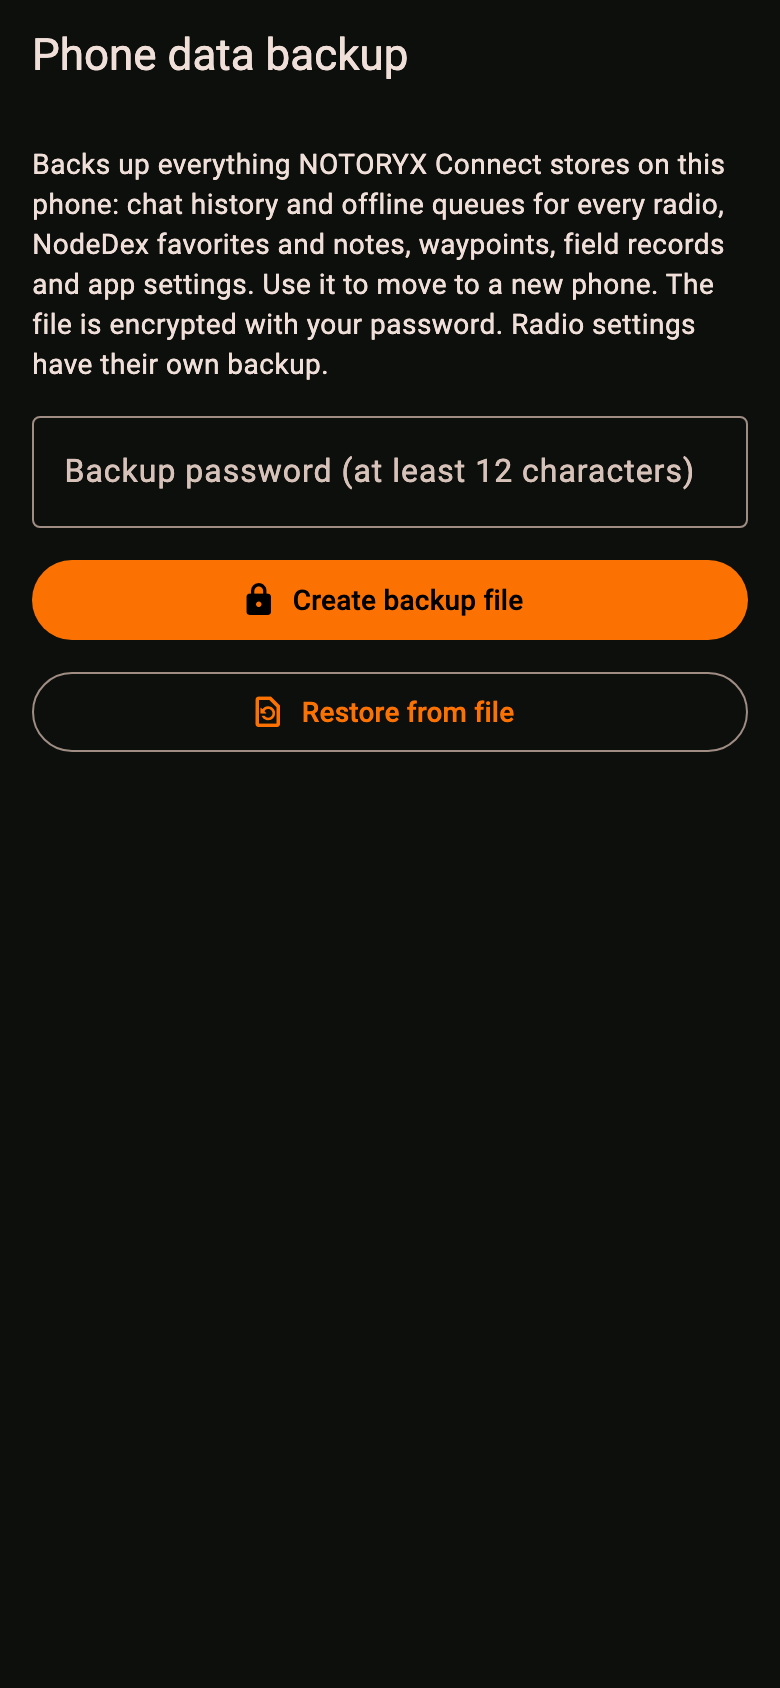
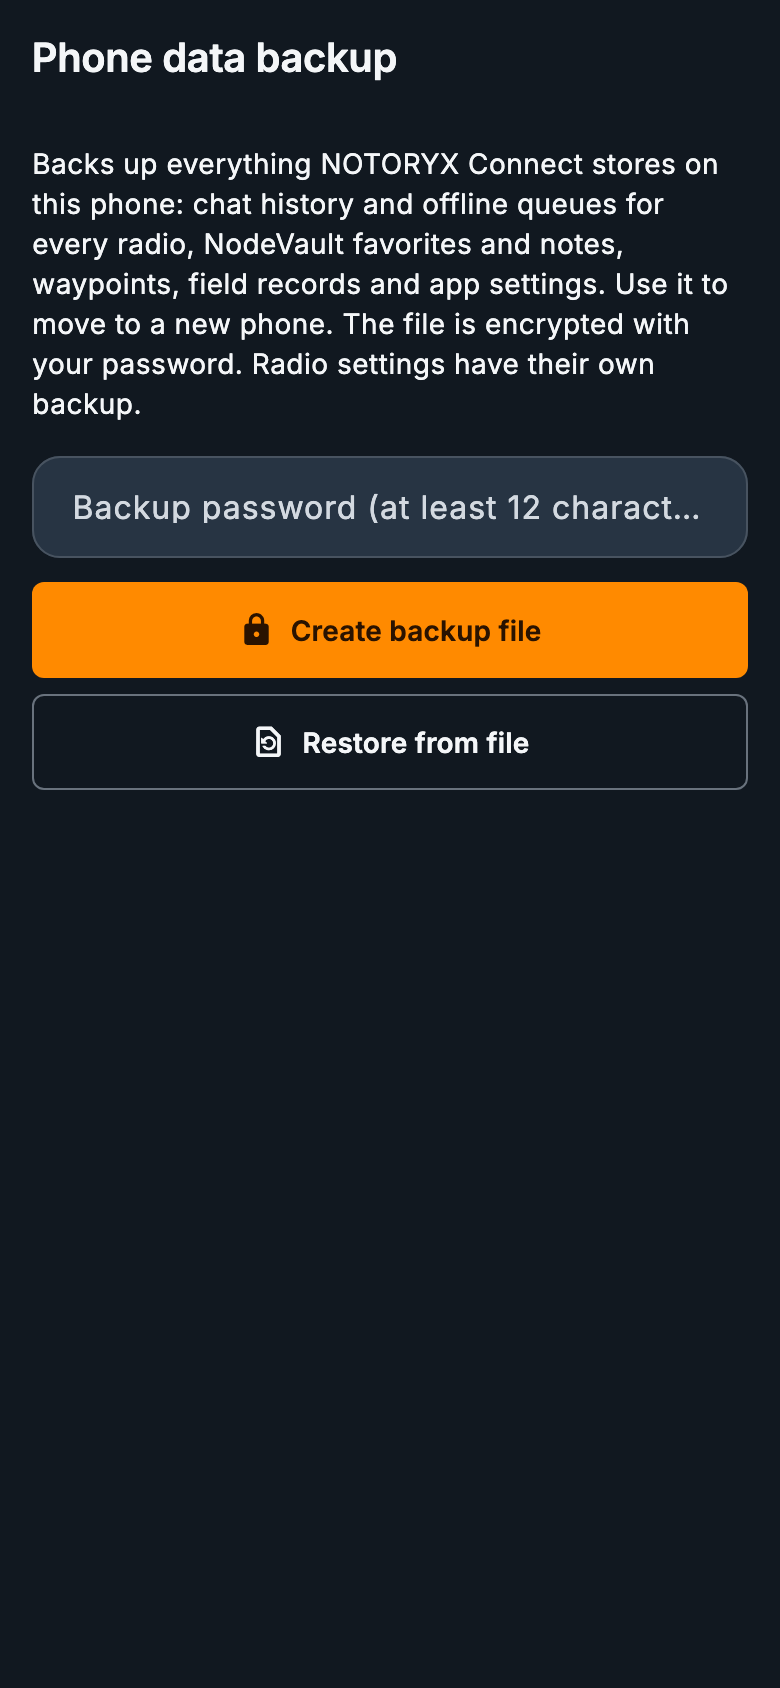
docs: refresh README and screenshots for beta.17

Changed region(s): [[0.0308, 0.0924, 0.9846, 0.4621], [0.0308, 0.0, 0.5231, 0.0616]]

diff --git a/README.md b/README.md
@@ -4,22 +4,24 @@
 
 # NOTORYX Connect downloads
 
-**An independent Android field app for LoRa mesh radios running Meshtastic® firmware.** Part of the **NOTORYX** off-grid communications family. **No Towers. No Limits.**
+**An independent field app for LoRa mesh radios running Meshtastic® firmware, for Android, macOS and Windows.** Part of the **NOTORYX** off-grid communications family. **No Towers. No Limits.**
 
 This repository hosts NOTORYX Connect builds. Get the latest from **[Releases](../../releases)**. The source code is at [TheLogsAreScreaming/notoryx-connect](https://github.com/TheLogsAreScreaming/notoryx-connect) (GPL-3.0).
 
 <p align="center">
-  <img src="images/home.png" width="190" alt="Home: field console, trip plan, check-in and hold for SOS">
+  <img src="images/home.png" width="190" alt="Home: field console with the demo radio connected, check-in and hold for SOS">
   <img src="images/trip.png" width="190" alt="Plan your trip: contacts, overdue alert and check-in reminder">
   <img src="images/beacons.png" width="190" alt="Mesh beacons heard, and sending one by hand">
   <img src="images/discovery.png" width="190" alt="Local mesh discovery planner">
 </p>
 <p align="center">
-  <img src="images/nodes.png" width="190" alt="Nodes: scan for radios and connect">
-  <img src="images/chats.png" width="190" alt="Chats: channel and direct messages with quick replies">
-  <img src="images/tools.png" width="190" alt="Tools: battery runtime, RSSI guide and deployment checklist">
+  <img src="images/nodes.png" width="190" alt="Nodes: the demo mesh's node list">
+  <img src="images/chats.png" width="190" alt="Chats: new message with channel picker, Send later and quick replies">
+  <img src="images/tools.png" width="190" alt="Tools: connection doctor, timeline, checklists and automations">
   <img src="images/field_records.png" width="190" alt="Field records: incident log, templates, coverage and bot safeguards">
 </p>
+
+<sub>Screenshots are from the app's built-in demo mode (a pretend radio and mesh).</sub>
 
 ## Why NOTORYX Connect?
 
@@ -29,10 +31,26 @@ Most mesh apps are built for poking at radios at your desk. NOTORYX Connect is b
 - **It watches your back.** Plan a trip with up to 6 contacts, check in with one tap, and **hold for SOS** to repeat a call for help until someone answers. The team map shows where each contact was last heard, how long ago, and the trail they took.
 - **It doesn't pretend.** Every radio setting you save is read back from the radio before the app calls it done. If the radio didn't take the change, you'll know. Delivery states come from real routing acknowledgments, not a hopeful checkmark.
 - **Your messages don't vanish.** Type with no radio connected and they queue on the phone, then go out when the link comes back. History, queues and nodes are kept separately for every radio you own.
-- **It stays connected.** A background service keeps the Bluetooth link up with the screen off, and it reconnects on its own when you walk back into range or flip Bluetooth back on.
+- **It stays connected.** Bluetooth, Wi-Fi or USB. A background service keeps the link up with the screen off, it reconnects on its own when you walk back into range, and the connection doctor explains what's wrong when it can't.
 - **Your data is yours.** No account, no analytics, no ads and no NOTORYX servers. Everything stays in the app's private storage on your phone, location sharing is opt-in and can be rounded before it leaves the phone, and backups are encrypted with your password.
 - **The bot has manners.** Bot Mode auto-replies with quiet hours, rate limits, per-node cooldowns and loop protection, so it can't spam the mesh.
-- **It's free and open source.** GPL-3.0, independently built, with its own identity.
+- **Try it without a radio.** Demo mode gives you a pretend radio and mesh to explore. Nothing is sent.
+- **It's free and open source.** GPL-3.0, independently built, with its own identity. In English, Spanish, French and German.
+
+## What's new since the first betas
+
+Everything below shipped between v1.0.0-beta.5 and v1.0.0-beta.17 (the latest, 2026-11-15). See each release for details.
+
+- **Connect over Wi-Fi or USB** as well as Bluetooth, with a **connection doctor**, **demo mode**, a home-screen widget and a Quick Settings tile.
+- **Trip readiness** check, airtime-aware SOS, a **check-in delivery map**, zone and off-route alerts, **day replay** of team positions, and a shareable trip plan.
+- **NodeVault** with a favorites filter, **node journal**, telemetry charts, **network diagram**, **mesh health** and node-key change alerts.
+- Map: **place search**, rally points and routes, traceroute on the map, coverage heatmap, **topo map and line-of-sight planner**, **GPX/KML/GeoJSON layers** and **offline maps from MBTiles**, plus a list view for screen readers.
+- Messaging: reactions, replies, @mentions, pins and unread markers, **forward** and **send later**, delivery receipts that say whether the radio proved delivery, hops and signal on each message, an airtime estimate while typing, and a lookalike-name warning.
+- **SALUTE** and **9-Line** report forms, **automations**, a **timeline**, offline **checklists**, and optional **community moderation** (off by default).
+- **Two-way ATAK** (asks before sharing positions), **MQTT client proxy**, **remote admin**, per-channel position precision, identity key backup and a new-radio checklist.
+- Optional **app lock** and **encrypted chat history** in an on-phone database.
+- **Eight themes** in the NOTORYX Core look, and **Spanish, French and German** translations (unreviewed).
+- **macOS and Windows** downloads.
 
 ## Everything it does
 
@@ -56,9 +74,9 @@ Most mesh apps are built for poking at radios at your desk. NOTORYX Connect is b
 - Quick replies: Copy, On my way, Need assistance, What is your position?
 - Search across all saved messages, including queued ones.
 - Message timeline and received-signal (SNR) history for the session.
-- Chat history (newest 500 per radio), queues and nodes kept separately for each radio.
+- Chat history (500 to 5,000 messages per conversation, your choice), queues and nodes kept separately for each radio.
 - Optional message notifications.
-- Emoji reactions (long-press a message), a draft saved for each conversation, and a **via MQTT** label on messages that came over the internet.
+- Emoji reactions (tap a message), a draft saved for each conversation, and a **via MQTT** label on messages that came over the internet.
 - **Ignore** or **mute** a node, and hide messages containing words you choose. An SOS reply from a trip contact is never missed, even if you ignored them.
 - Optional automatic deletion of old channel messages (direct messages are kept) and reading new messages aloud.
 - App-icon shortcuts: Check in / SOS, Chats, Nodes and Map.
@@ -114,7 +132,7 @@ Most mesh apps are built for poking at radios at your desk. NOTORYX Connect is b
 - **Privacy & data** screen that lists exactly what's stored and what's sent, with buttons to delete chat history or all phone data.
 
 ### Look and feel
-- Dark (default), light or system theme, with a NOTORYX orange accent checked for readable contrast.
+- Eight themes (Blaze is the default; Bare Beauty is the light one), with accents checked for readable contrast.
 - Hide the dashboard sections you don't use.
 - Follows your phone's text size. Status switches to an icon with a spoken label when text is large.
 
@@ -125,23 +143,30 @@ Most mesh apps are built for poking at radios at your desk. NOTORYX Connect is b
   <img src="images/settings.png" width="190" alt="Settings: appearance, units, filters and messages">
 </p>
 
-> NOTORYX Connect is a beta, checked on one radio (a Seeed T1000-E) so far. Don't rely on it as your only way to call for help.
+> NOTORYX Connect is a test beta. The latest betas were checked on one phone (a Samsung Galaxy A15) with one radio (a Seeed T1000-E). Many newer features, and the macOS and Windows builds, have automated tests but haven't been checked on a range of hardware yet. Don't rely on it as your only way to call for help.
 
 ## Which file do I need?
 
-Download the `NOTORYX-Connect-<version>-<build>.apk` from the latest release (ARM64 Android phones). Releases also include an `.aab` (for the Play Store, not for installing directly), checksums in `SHA256SUMS.txt`, and signing details in `SIGNATURE.txt`.
+| You have | Download | Notes |
+|---|---|---|
+| An Android phone (ARM64) | `NOTORYX-Connect-<version>-<build>.apk` | Signed with the release key. Check it with `SHA256SUMS.txt` and `SIGNATURE.txt` |
+| A Mac (Intel or Apple silicon) | `NOTORYX-Connect-<version>-<build>-macOS-universal.zip` | Not notarized: right-click the app and choose **Open** the first time |
+| A Windows PC (64-bit) | `NOTORYX-Connect-<version>-<build>-Windows-x64-setup.exe` or `-Windows-x64.zip` | Installs for your user, no admin needed. Not code signed, so SmartScreen warns on first launch |
 
-Betas are marked as pre-releases, so look through the **[Releases](../../releases)** list rather than only at "Latest".
+The `.aab` is for the Play Store, not for installing directly. There is no iPhone release yet.
+
+Betas are marked as pre-releases, so look through the **[Releases](../../releases)** list rather than only at "Latest". The newest is **v1.0.0-beta.17** (build 21).
 
 ## Install on Android
 
 1. On your phone, open the latest release and download the `.apk`.
 2. Open the file. If Android asks, allow installs from your browser or file manager.
 3. Open NOTORYX Connect and allow **Bluetooth**, **location** and **notifications** when asked.
+4. For a steady background link, set the app's battery use to **Unrestricted** (**Settings → Background connection** shows how).
 
 **Updating?** Newer betas install over older ones and keep your data. Don't uninstall first.
 
-**Coming from v0.1.3-beta.1 or earlier?** The app ID is changing from `org.backcountrysignal.bastion` to `com.bastionmesh.connect`, so the next release installs as a separate app. In the old app, make a backup (**Settings → Phone data backup / restore**), install the new app, restore the backup there, then uninstall the old one. You only do this once.
+**Coming from v0.1.3-beta.1 or earlier?** The app ID changed from `org.backcountrysignal.bastion` to `com.bastionmesh.connect`, so the new app installs separately. In the old app, make a backup (**Settings → Phone data backup / restore**), install the new app, restore the backup there, then uninstall the old one. You only do this once.
 
 ## About
 
